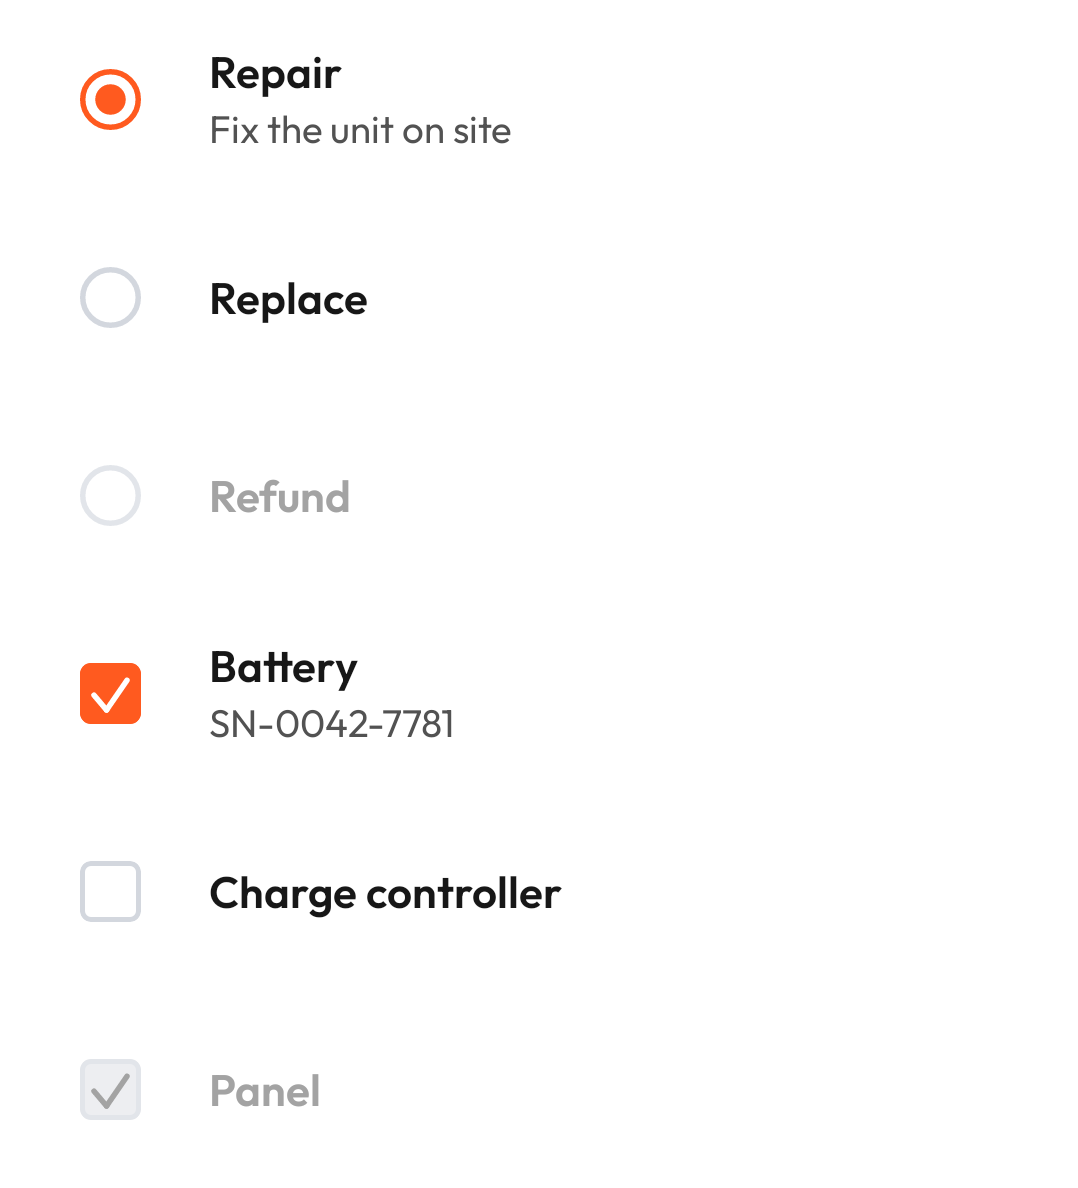
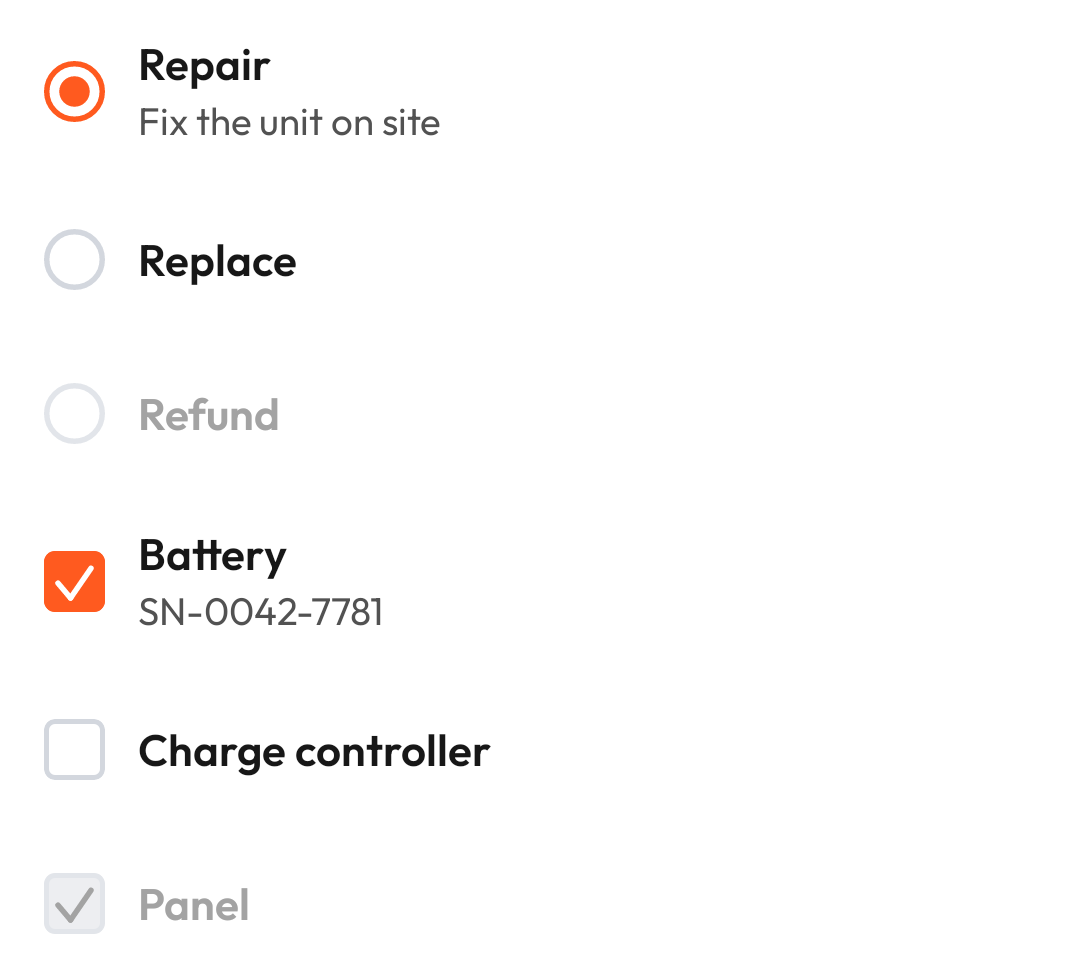
Stop display-only radios and checkboxes reserving a touch area, and pass text styles through selection list items
JengaRadioButton and JengaCheckbox only apply the 48dp minimum interactive size when they have a click handler, so rows that own the click are no taller than their content. JengaRadioListItem and JengaCheckboxListItem take headlineStyle and supportingStyle, and JengaRadioButton takes a size.

diff --git a/jenga/src/commonMain/kotlin/io/github/joelkanyi/jenga/component/list/JengaSelectionListItems.kt b/jenga/src/commonMain/kotlin/io/github/joelkanyi/jenga/component/list/JengaSelectionListItems.kt
@@ -10,10 +10,12 @@ import androidx.compose.ui.Alignment
 import androidx.compose.ui.Modifier
 import androidx.compose.ui.graphics.Shape
 import androidx.compose.ui.semantics.Role
+import androidx.compose.ui.text.TextStyle
 import androidx.compose.ui.unit.Dp
 import io.github.joelkanyi.jenga.component.selection.JengaCheckbox
 import io.github.joelkanyi.jenga.component.selection.JengaCheckboxDefaults
 import io.github.joelkanyi.jenga.component.selection.JengaRadioButton
+import io.github.joelkanyi.jenga.component.selection.JengaRadioButtonDefaults
 
 /** Where a selection list item draws its control. */
 public enum class JengaControlPosition { Leading, Trailing }
@@ -34,6 +36,9 @@ public enum class JengaControlPosition { Leading, Trailing }
  * @param minHeight the minimum row height.
  * @param contentPadding inner padding around the row content.
  * @param contentSpacing the gap between the control and the text.
+ * @param headlineStyle the [headline] text style.
+ * @param supportingStyle the [supporting] text style.
+ * @param radioSize the diameter of the radio.
  * @param trailingContent optional end slot (e.g. a count), before a trailing control; tapping it selects the row.
  */
 @Composable
@@ -48,9 +53,14 @@ public fun JengaRadioListItem(
     minHeight: Dp = JengaListItemDefaults.MinHeight,
     contentPadding: PaddingValues = JengaListItemDefaults.contentPadding,
     contentSpacing: Dp = JengaListItemDefaults.contentSpacing,
+    headlineStyle: TextStyle = JengaListItemDefaults.headlineStyle,
+    supportingStyle: TextStyle = JengaListItemDefaults.supportingStyle,
+    radioSize: Dp = JengaRadioButtonDefaults.Size,
     trailingContent: (@Composable () -> Unit)? = null,
 ) {
-    val control: @Composable () -> Unit = { JengaRadioButton(selected = selected, onClick = null, enabled = enabled) }
+    val control: @Composable () -> Unit = {
+        JengaRadioButton(selected = selected, onClick = null, enabled = enabled, size = radioSize)
+    }
     JengaListItem(
         headline = headline,
         modifier = modifier.selectable(
@@ -66,6 +76,8 @@ public fun JengaRadioListItem(
         minHeight = minHeight,
         contentPadding = contentPadding,
         contentSpacing = contentSpacing,
+        headlineStyle = headlineStyle,
+        supportingStyle = supportingStyle,
     )
 }
 
@@ -85,6 +97,8 @@ public fun JengaRadioListItem(
  * @param minHeight the minimum row height.
  * @param contentPadding inner padding around the row content.
  * @param contentSpacing the gap between the control and the text.
+ * @param headlineStyle the [headline] text style.
+ * @param supportingStyle the [supporting] text style.
  * @param trailingContent optional end slot (e.g. a count), before a trailing control; tapping it toggles the row.
  * @param checkboxShape the checkbox box shape.
  */
@@ -100,6 +114,8 @@ public fun JengaCheckboxListItem(
     minHeight: Dp = JengaListItemDefaults.MinHeight,
     contentPadding: PaddingValues = JengaListItemDefaults.contentPadding,
     contentSpacing: Dp = JengaListItemDefaults.contentSpacing,
+    headlineStyle: TextStyle = JengaListItemDefaults.headlineStyle,
+    supportingStyle: TextStyle = JengaListItemDefaults.supportingStyle,
     trailingContent: (@Composable () -> Unit)? = null,
     checkboxShape: Shape = JengaCheckboxDefaults.shape,
 ) {
@@ -121,6 +137,8 @@ public fun JengaCheckboxListItem(
         minHeight = minHeight,
         contentPadding = contentPadding,
         contentSpacing = contentSpacing,
+        headlineStyle = headlineStyle,
+        supportingStyle = supportingStyle,
     )
 }
 

diff --git a/jenga/src/androidMain/kotlin/io/github/joelkanyi/jenga/component/list/JengaSelectionListItemsPreviews.kt b/jenga/src/androidMain/kotlin/io/github/joelkanyi/jenga/component/list/JengaSelectionListItemsPreviews.kt
@@ -2,9 +2,12 @@ package io.github.joelkanyi.jenga.component.list
 
 import androidx.compose.foundation.background
 import androidx.compose.foundation.layout.Column
+import androidx.compose.foundation.layout.PaddingValues
 import androidx.compose.runtime.Composable
 import androidx.compose.ui.Modifier
+import androidx.compose.ui.text.font.FontWeight
 import androidx.compose.ui.tooling.preview.Preview
+import androidx.compose.ui.unit.dp
 import io.github.joelkanyi.jenga.component.text.JengaText
 import io.github.joelkanyi.jenga.core.preview.JengaBlockPreviews
 import io.github.joelkanyi.jenga.core.preview.RtlPreview
@@ -75,6 +78,37 @@ internal fun JengaSelectionListItemsCountPreview() {
                 onCheckedChange = {},
                 controlPosition = JengaControlPosition.Trailing,
                 trailingContent = { JengaText("3", style = JengaTheme.typography.bodySmall) },
+            )
+        }
+    }
+}
+
+@JengaBlockPreviews
+@Composable
+internal fun JengaSelectionListItemsCompactPreview() {
+    JengaTheme {
+        Column(modifier = Modifier.background(JengaTheme.colors.surface)) {
+            JengaRadioListItem(
+                headline = "Open",
+                selected = true,
+                onClick = {},
+                supporting = "Waiting for a technician",
+                minHeight = 0.dp,
+                contentPadding = PaddingValues(horizontal = 2.dp, vertical = 13.dp),
+                contentSpacing = 14.dp,
+                headlineStyle = JengaTheme.typography.bodyMedium.copy(fontWeight = FontWeight.Normal),
+                supportingStyle = JengaTheme.typography.caption,
+                radioSize = 20.dp,
+            )
+            JengaRadioListItem(
+                headline = "Closed",
+                selected = false,
+                onClick = {},
+                minHeight = 0.dp,
+                contentPadding = PaddingValues(horizontal = 2.dp, vertical = 13.dp),
+                contentSpacing = 14.dp,
+                headlineStyle = JengaTheme.typography.bodyMedium.copy(fontWeight = FontWeight.Normal),
+                radioSize = 20.dp,
             )
         }
     }

diff --git a/jenga/src/commonMain/kotlin/io/github/joelkanyi/jenga/component/selection/JengaRadioButton.kt b/jenga/src/commonMain/kotlin/io/github/joelkanyi/jenga/component/selection/JengaRadioButton.kt
@@ -63,10 +63,12 @@ public object JengaRadioButtonDefaults {
  * @sample io.github.joelkanyi.jenga.samples.JengaRadioButtonSample
  *
  * @param selected whether this option is selected.
- * @param onClick called when tapped; pass `null` for read-only/externally-driven.
+ * @param onClick called when tapped; pass `null` for read-only/externally-driven (e.g. inside a
+ *   selectable row), which also drops the control's own 48dp touch area.
  * @param modifier the [Modifier] for this radio button.
  * @param enabled whether the control is interactive.
  * @param colors the color set; defaults to [JengaRadioButtonDefaults.colors].
+ * @param size the diameter of the radio.
  */
 @Composable
 public fun JengaRadioButton(
@@ -75,6 +77,7 @@ public fun JengaRadioButton(
     modifier: Modifier = Modifier,
     enabled: Boolean = true,
     colors: JengaRadioButtonColors = JengaRadioButtonDefaults.colors(),
+    size: Dp = JengaRadioButtonDefaults.Size,
 ) {
     val ring = when {
         !enabled -> colors.disabledRing
@@ -91,15 +94,15 @@ public fun JengaRadioButton(
 
     Canvas(
         modifier = modifier
-            .minimumInteractiveComponentSize()
+            .then(if (onClick != null) Modifier.minimumInteractiveComponentSize() else Modifier)
             .then(selectableModifier)
-            .size(JengaRadioButtonDefaults.Size),
+            .size(size),
     ) {
         val stroke = 2.dp.toPx()
-        val radius = (size.minDimension - stroke) / 2f
+        val radius = (this.size.minDimension - stroke) / 2f
         drawCircle(color = ring, radius = radius, style = androidx.compose.ui.graphics.drawscope.Stroke(width = stroke))
         if (selected) {
-            drawCircle(color = dot, radius = size.minDimension * 0.25f)
+            drawCircle(color = dot, radius = this.size.minDimension * 0.25f)
         }
     }
 }

diff --git a/jenga/src/commonMain/kotlin/io/github/joelkanyi/jenga/component/selection/JengaCheckbox.kt b/jenga/src/commonMain/kotlin/io/github/joelkanyi/jenga/component/selection/JengaCheckbox.kt
@@ -87,7 +87,8 @@ public object JengaCheckboxDefaults {
  *
  * @param checked whether the box is checked.
  * @param onCheckedChange called with the new state; pass `null` for a read-only,
- *   externally-driven checkbox.
+ *   externally-driven checkbox (e.g. inside a selectable row), which also drops the
+ *   control's own 48dp touch area.
  * @param modifier the [Modifier] for this checkbox.
  * @param enabled whether the checkbox is interactive.
  * @param shape the box shape; defaults to [JengaCheckboxDefaults.shape].
@@ -127,7 +128,7 @@ public fun JengaCheckbox(
 
     Canvas(
         modifier = modifier
-            .minimumInteractiveComponentSize()
+            .then(if (onCheckedChange != null) Modifier.minimumInteractiveComponentSize() else Modifier)
             .then(toggleModifier)
             .size(JengaCheckboxDefaults.Size)
             .clip(shape)
